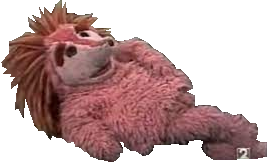
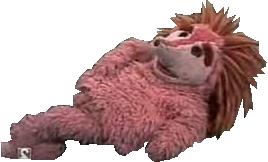
enlace ficha ldap del usuario espinete tumbado en la esquina inferior derecha

diff --git a/tab_functions.js b/tab_functions.js
@@ -61,6 +61,7 @@ function refrescar() {
 	}
 	else {
 		b = getElementByNAV('button', 'title', 'Actualizar consola')
+		console.log('boton refresh='+b)
 		if (b != -1) {
 			b.click()
 		}
@@ -459,37 +460,61 @@ function crearSonido() {
 
 
 function checkNuevo()  {
-	elementos = document.getElementsByTagName('span')
-	fecha = 0
-	fechaMasReciente = ""
-	fechaLS = localStorage.getItem("fecha_mas_reciente")
+	combo = getElementByNAV('span', 'ng-if', 'appliedUserFiltern.name')
+	
+	if (combo.innerHTML == 'Mis tickets asignados') {
+		elementos = document.getElementsByTagName('span')
+		fecha = 0
+		fechaMasReciente = ""
+		fechaLS = localStorage.getItem("fecha_mas_reciente")
 
-	for (i = 0; i < elementos.length; i++) {
-		ele = elementos[i]
-		if (ele.getAttribute("class") == "ng-binding") {
-			fecha = ele.innerHTML
-			if (isFecha(fecha)) {
-				fecha = fecha.substring(6,10) + fecha.substring(3,5) + fecha.substring(0,2) + fecha.substring(11)
-				//console.log("fecha " + fecha)
-			
-				if (fecha > fechaMasReciente) {
-					fechaMasReciente = fecha
+		for (i = 0; i < elementos.length; i++) {
+			ele = elementos[i]
+			if (ele.getAttribute("class") == "ng-binding") {
+				fecha = ele.innerHTML
+				if (isFecha(fecha)) {
+					fecha = fecha.substring(6,10) + fecha.substring(3,5) + fecha.substring(0,2) + fecha.substring(11)
+					//console.log("fecha " + fecha)
+				
+					if (fecha > fechaMasReciente) {
+						fechaMasReciente = fecha
+					}
 				}
 			}
 		}
-	}
-	//console.log("fecha mas reciente " + fechaMasReciente)
-	if (fechaMasReciente != '') {
-		localStorage.setItem("fecha_mas_reciente", fechaMasReciente)
-		
-		if (fechaMasReciente > fechaLS) {
-			crearSonido()
-			//document.getElementById("sonido").play()
-			alert("CAMBIO [" + fechaMasReciente + "]  [" + fechaLS + "]")
+		//console.log("fecha mas reciente " + fechaMasReciente)
+		if (fechaMasReciente != '') {
+			localStorage.setItem("fecha_mas_reciente", fechaMasReciente)
+			
+			if (fechaMasReciente > fechaLS) {
+				crearSonido()
+				document.getElementById("sonido").play()
+				//alert("CAMBIO [" + fechaMasReciente + "]  [" + fechaLS + "]")
+			}
 		}
 	}
 }
 
+
+
+function anadirEnlacesUsuario() {
+	console.log('---anadir enlaces usuario---')
+	lab = document.getElementById('jccm_chr_logincustomerLabel')
+	if (lab == null) return
+	if (document.getElementById('enlace_ldap') != null) return
+	
+	lab = lab.parentNode
+	
+	uid = lab.childNodes[2].textContent 
+	
+	enlaceLDAP = document.createElement('a')
+	enlaceLDAP.id = 'enlace_ldap'
+	enlaceLDAP.setAttribute('target', 'ldap_' + uid)
+	enlaceLDAP.setAttribute('href', 'https://cru.jccm.es/usuarios/gestusu.php?uid=' + uid)
+	enlaceLDAP.innerHTML = '<span><b>Ficha LDAP</b> &nbsp;</span><span class="icon-pop_up ng-scope"></span>'
+	
+	lab.appendChild(enlaceLDAP)
+}
 
 
 //setTimeout(quitarEnlace,1000, "JavaScript")
@@ -517,3 +542,5 @@ setInterval(modificarCabecerasLista, 1000, "JavaScript")
 setInterval(modificarEstadoLista, 1000, "JavaScript")
 
 setInterval(checkNuevo, 15000, "JavaScript")
+
+setInterval(anadirEnlacesUsuario, 1000, 'JavaScript')

diff --git a/estilos.css b/estilos.css
@@ -6,14 +6,20 @@
 	background-repeat: no-repeat;
 }
 
-.ngGrid {
+.zzngGrid {
 	z-index: 2 !important;
 	background: rgb(255,255,255,0.0) !important;
 }
-.ngRow {
-	z-index: 2 !important;
-	background: rgb(255,255,255,0.55) !important;
+.zngRow {
+	zz-index: 2 !important;
+	zbackground: rgb(255,255,255,0.55) !important;
+	border-bottom: 1px solid #000000 !important;
 }
+
+.zdropdown-item__header_collapsed {
+	z-index: 10 !important;
+}
+
 
 .tc__accessible td, .tc__accessible th {
 	padding: 7px !important;
@@ -154,23 +160,19 @@
 	width: 268px;
 	height: 162px;
 	position: fixed;
-	bottom: 2px;
-	left: 0px; 
+	right: 2px; 
+	z-index: 1;
 	background-image: url(chrome-extension://__MSG_@@extension_id__/espinete_tumbado.png)  !important;  
-	animation-name: mvespi;
-	animation-delay: 0s;
-	animation-duration: 9s;
-	animation-iteration-count: 1;
-	z-index: -1;
+	animation-name: animacion_espi;
+	animation-duration: 40s;
+	animation-iteration-count: infinite;
 }
-
-@keyframes mvespi {
-	from {
-		bottom: -500px;
-	}
-	to {
-		bottom: 2px;
-	}
+@keyframes animacion_espi {
+	 0%	{ bottom: -500px; }
+	15% { bottom: 2px; }
+	30% { bottom: 2px; }
+	50% { bottom: -500px; }
+	100% {bottom: -500px; }
 }
 
 
